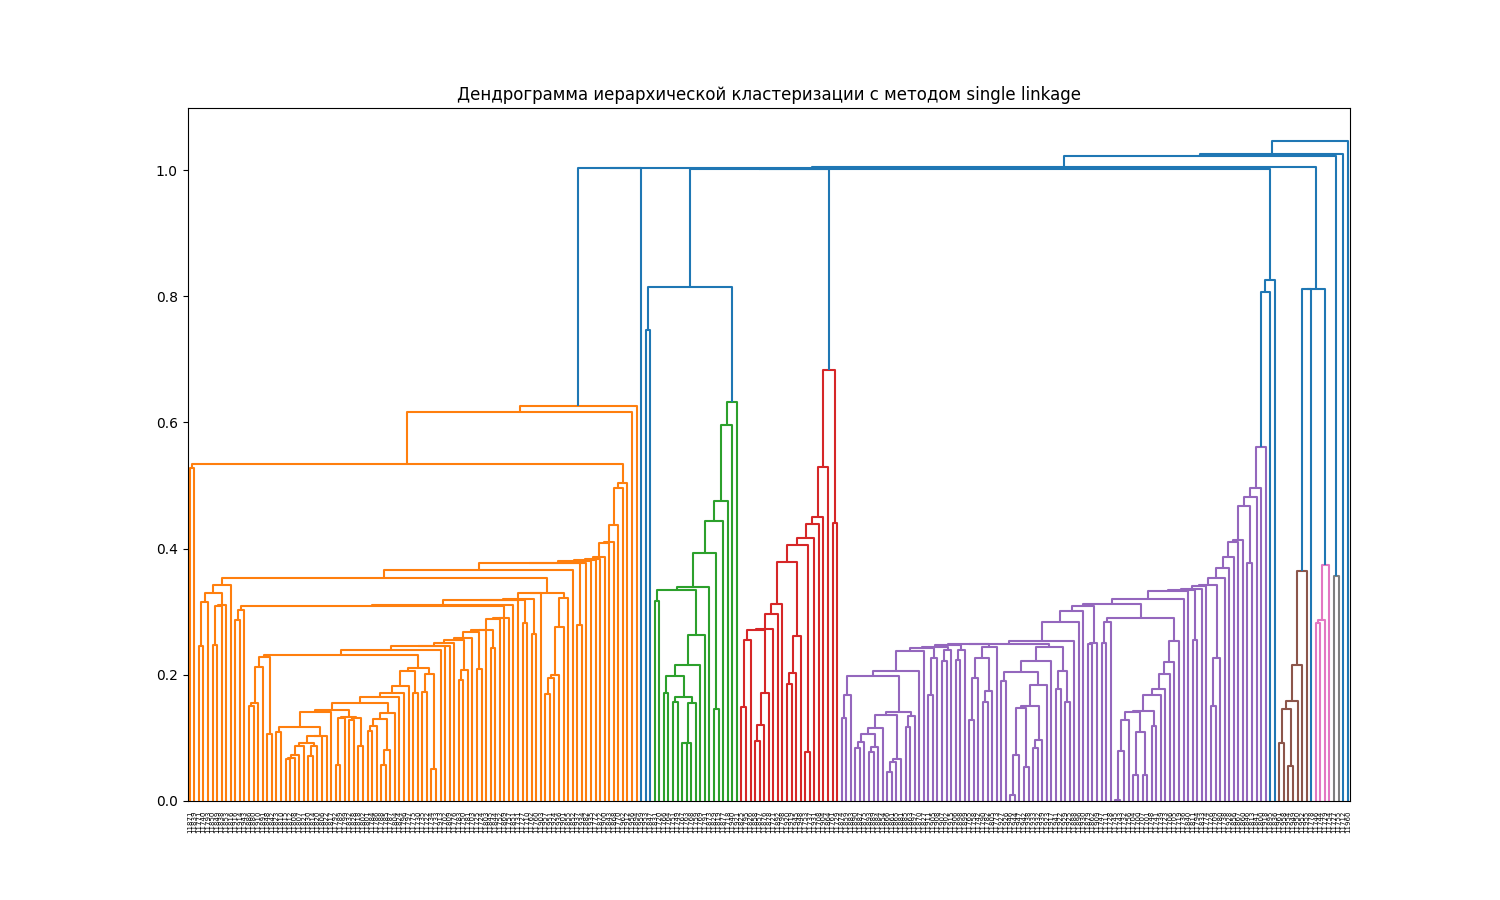
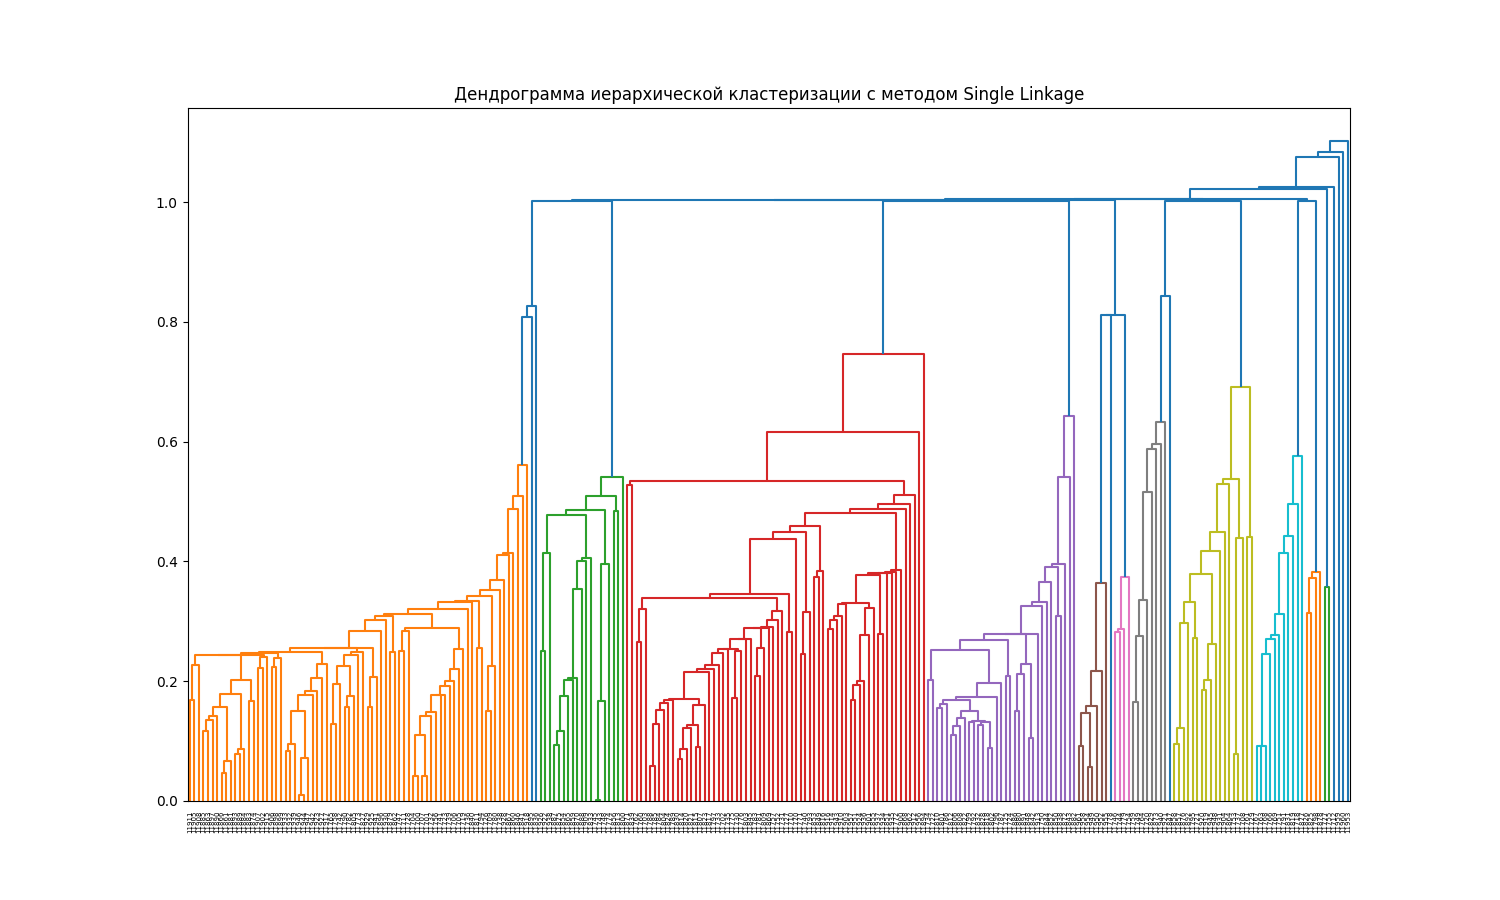
Добавлена нормализация данных в иерархической кластеризации

diff --git a/anomaly_tree.py b/anomaly_tree.py
@@ -3,7 +3,7 @@ import pandas as pd
 from scipy.cluster.hierarchy import linkage, dendrogram
 import matplotlib.pyplot as plt
 from sklearn.impute import SimpleImputer
-
+from sklearn.preprocessing import MinMaxScaler
 
 # Создание и соединение с базой данных
 connection = sqlite3.connect('accounts_db.db')
@@ -35,22 +35,29 @@ data.set_index('user_id', inplace=True)
 
 # Заполнение отсутствующих значений в данных
 imputer = SimpleImputer(strategy='mean')  # Берем среднее значение по столбцу
-data.fillna(data.mean(), inplace=True)
+data_imputed = data.fillna(data.mean())
 
-# Закрываем соединение с базой данных
-connection.close()
+# Нормализация признаков
+scaler = MinMaxScaler()
+data_normalized = scaler.fit_transform(data_imputed)
+
+# Сортировка данных по столбцу username_length
+data_sorted = data.sort_values(by='username_length')
 
 # Вычисление матрицы расстояний
-Z = linkage(data, method='complete', metric='euclidean')
+Z = linkage(data_normalized, method='single', metric='euclidean')
 
 # Создание графика дендрограммы
 plt.figure(figsize=(15, 9))
-plt.title("Дендрограмма иерархической кластеризации с методом complete linkage")
+plt.title("Дендрограмма иерархической кластеризации с методом Single Linkage")
 dendrogram(Z,
            orientation='top',
            distance_sort='descending',
            show_leaf_counts=True,
            labels=data.index)  # Подписываем листья как user_id
 
-plt.savefig('anomaly_dendrogramm_complete_ALL.png')
+plt.savefig('anomaly_dendrogramm_single_ALL.png')
 plt.show()
+
+# Закрываем соединение с базой данных
+connection.close()
